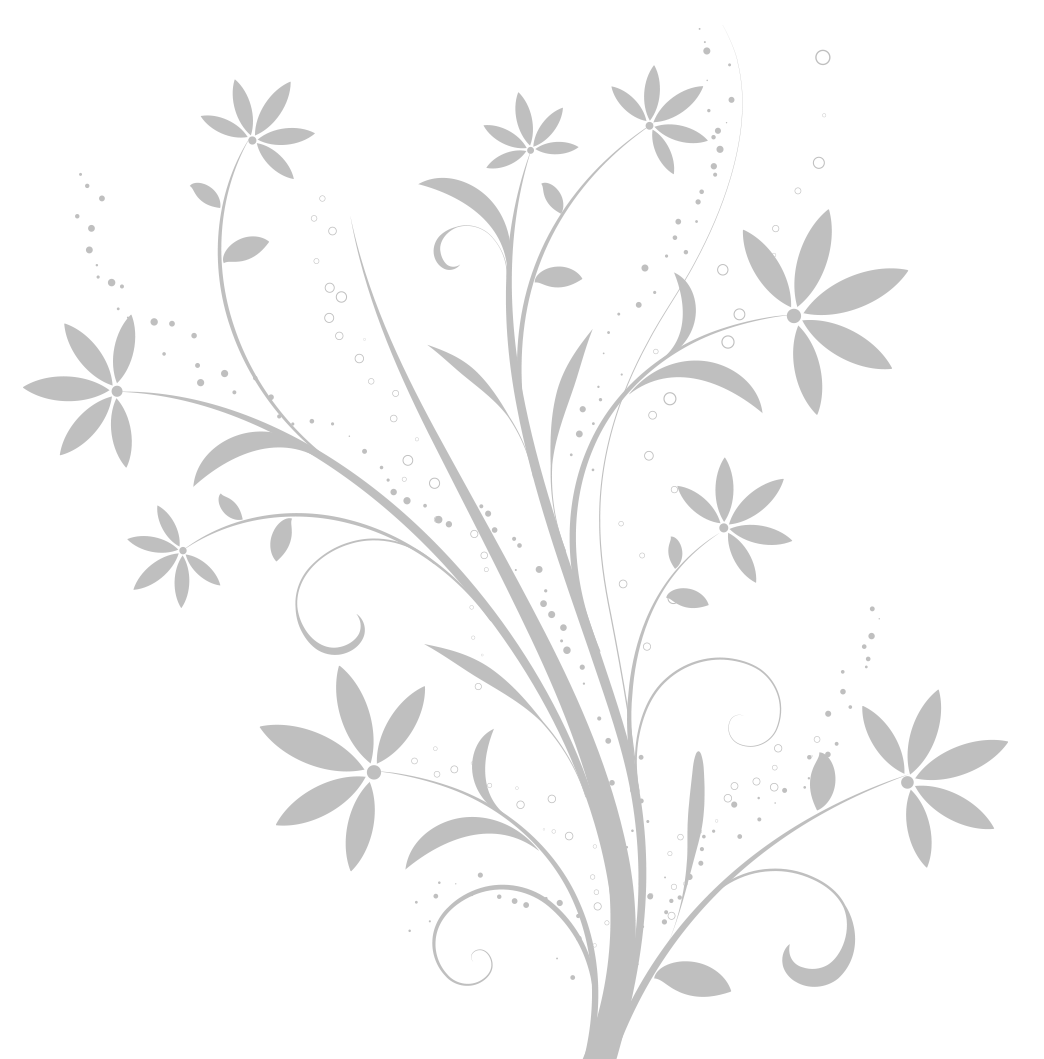
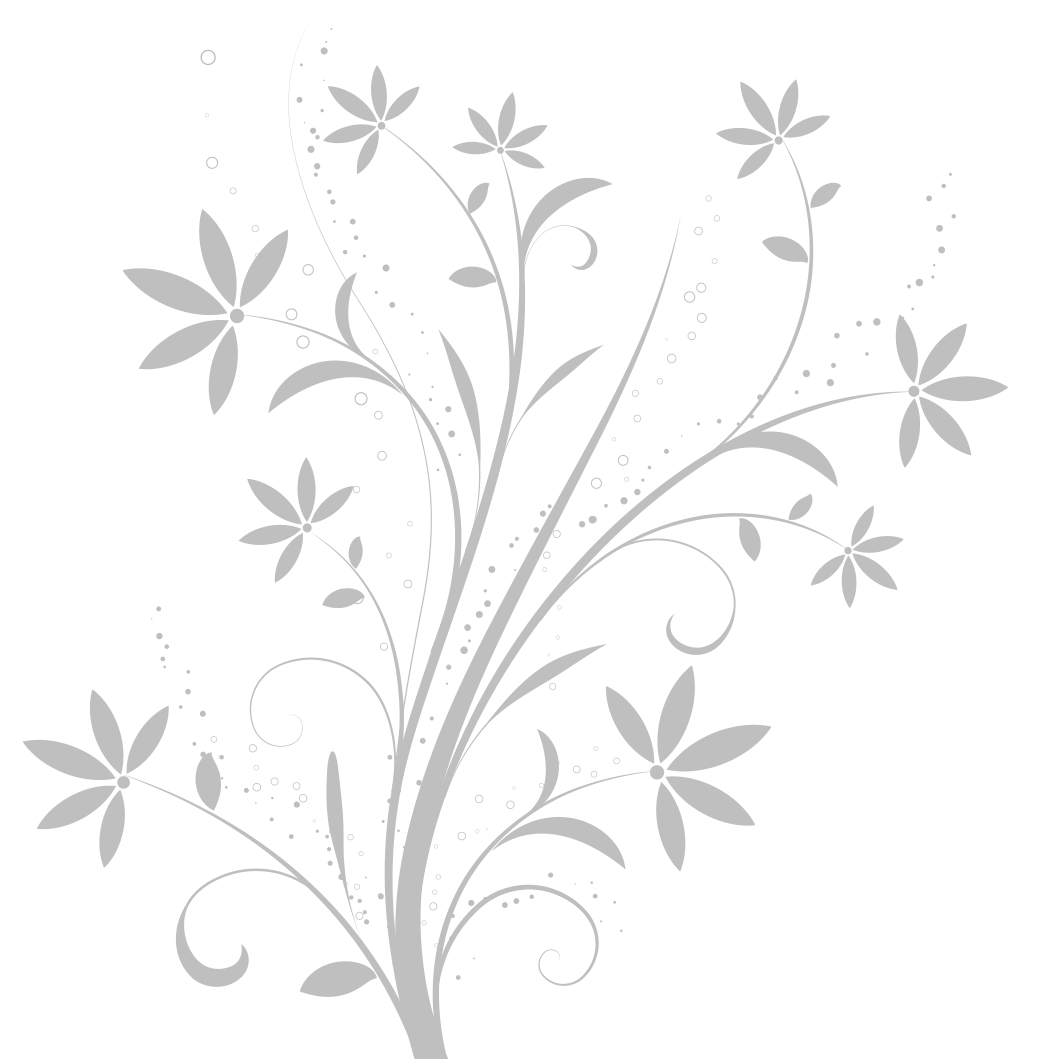
more HTML/CSS adjustments

diff --git a/worthapp/css/worth.css b/worthapp/css/worth.css
@@ -7,7 +7,7 @@ only screen and (min-device-pixel-ratio: 1.5)
     body button.btn { font-size: 150%; }
 }
 
-body {color: #932951;}
+body *  {font-family: arial, helvetica, sans-serif!important;}
 
 .hidden { display: none; }
 .safety .row { margin-bottom: 1em; }
@@ -54,6 +54,11 @@ body {color: #932951;}
     overflow-x: hidden;
     /* Disable horizontal scroll */
     padding: 1.25em 0em 1.25em 2.75em;
+    background-image: url("../img/floral-screen-025.png");
+    background-repeat: no-repeat;
+    background-position: -450px top;
+    background-attachment: static;
+    color: #fff;
 }
 
 .sidenav ol.nav-toc
@@ -93,7 +98,7 @@ padding-left: 0em;
 
 /* When you mouse over the navigation links, change their color */
 .sidenav a:hover,
-.offcanvas a:focus { color: #000; }
+.offcanvas a:focus { color: #f7ecf0; text-decoration: underline; }
 
 /* Position and style the close button (top right corner) */
 .sidenav .closebtn
@@ -119,9 +124,11 @@ padding-left: 0em;
 img.half-width { max-width: 50%; }
 
 li.highlight {  background-color: #fff; }
-li.highlight  a { color: #000;  font-weight: bold; padding: .5em; .argin-right: .5em;}
+li.highlight  a { color: #000;  font-weight: bold; padding: .5em 0em .5em .5em;}
 
 
 .swiper-container {
     margin: 5em;
 }
+
+img#logo {width: 200px; margin: 0px 0px 20px 20px;}
